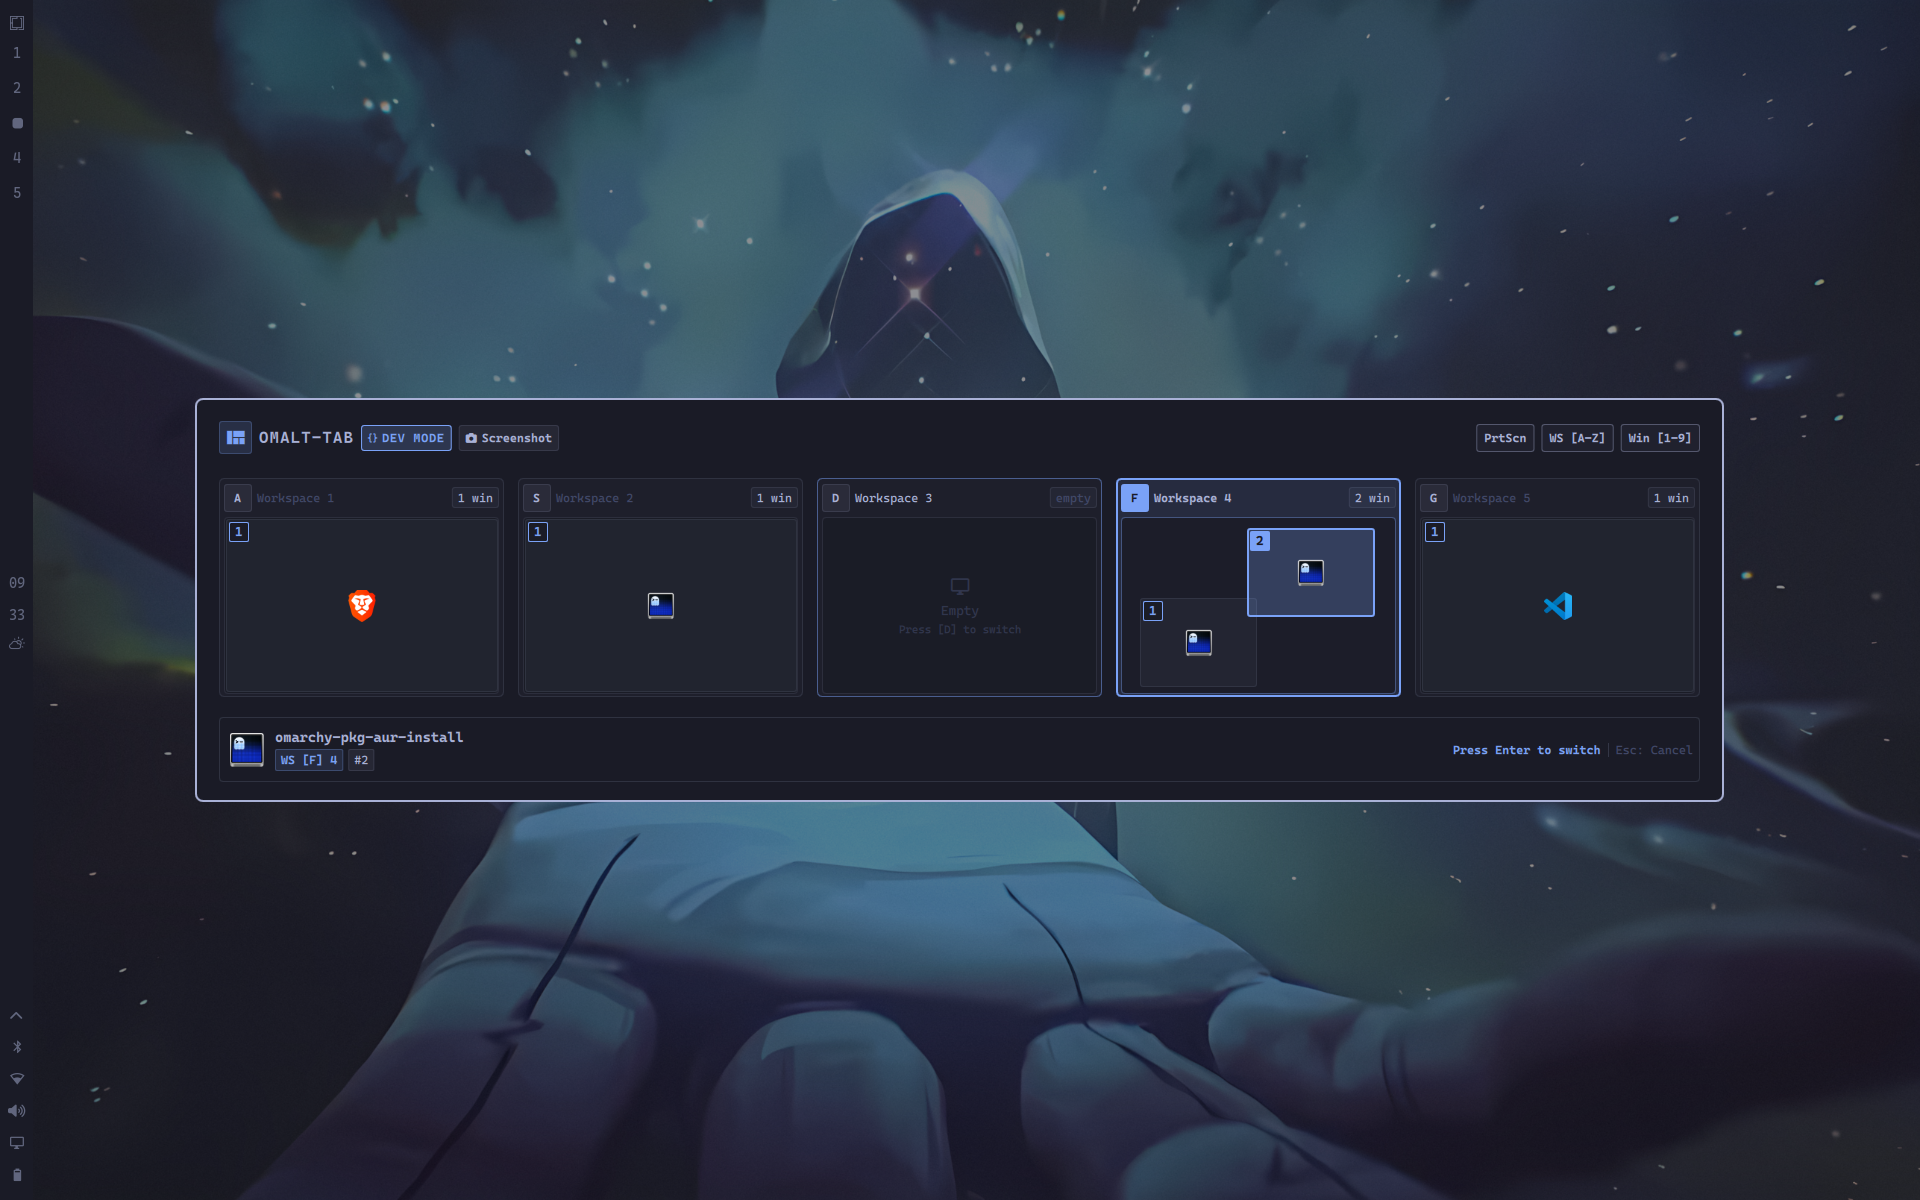
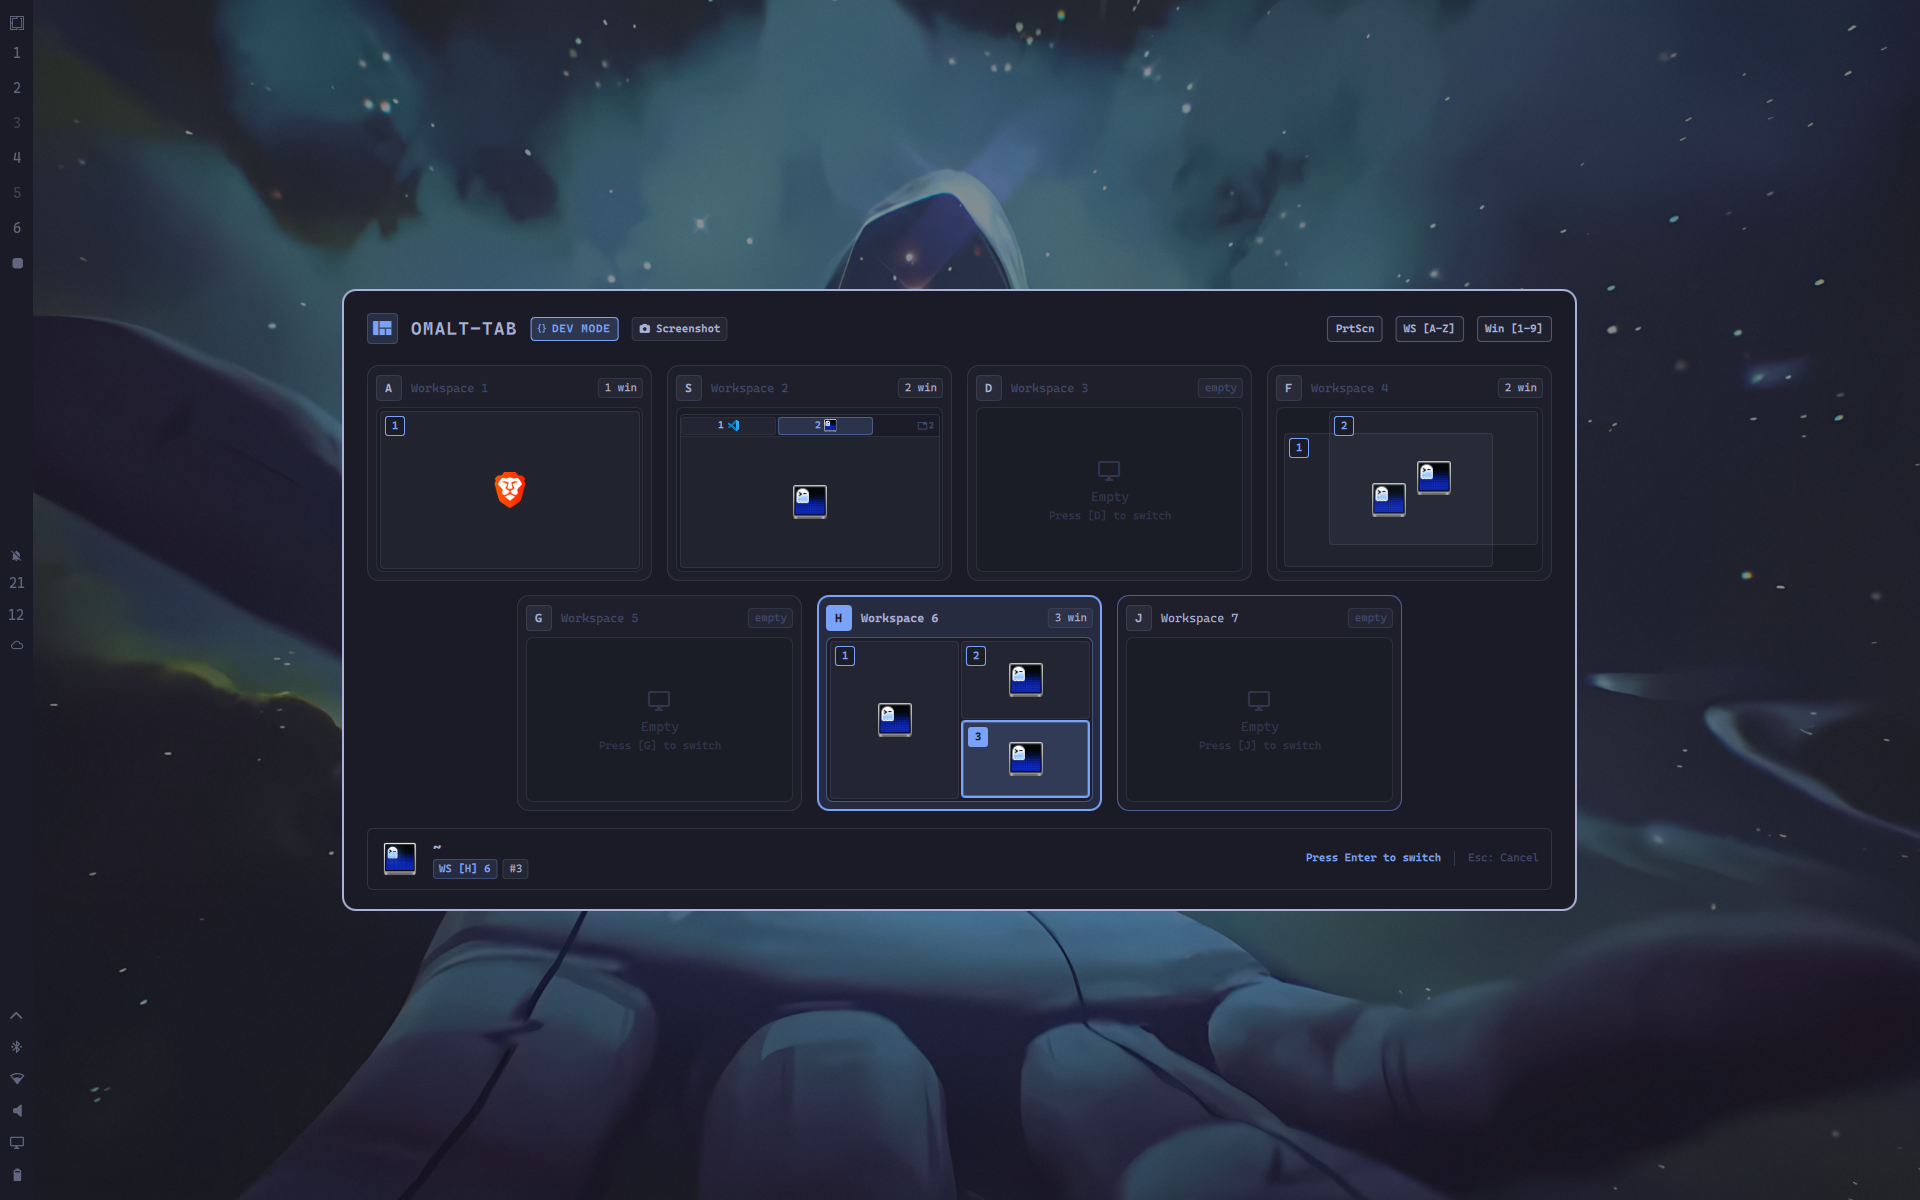
docs: update visual tour, screenshots, and documentation for multi-row layout

diff --git a/README.md b/README.md
@@ -2,12 +2,12 @@
 
 # ❖ omalt-tab
 
-**An ergonomic, race-condition-free Quickshell Alt+Tab window switcher with home-row workspace navigation and spatial miniature desktop layout for Omarchy.**
+**An ergonomic, race-condition-free Quickshell Alt+Tab window switcher with home-row workspace navigation, native Hyprland grouped window tabs, dynamic multi-row overflow, and spatial miniature desktop layout for Omarchy.**
 
 [![Omarchy Plugin](https://img.shields.io/badge/Omarchy-Plugin-3b82f6.svg?style=for-the-badge&logo=archlinux&logoColor=white)](https://omarchy.org)
 [![Quickshell](https://img.shields.io/badge/Quickshell-0.3.1-f59e0b.svg?style=for-the-badge)](https://quickshell.outfoxxed.me)
 [![License: Apache 2.0](https://img.shields.io/badge/License-Apache_2.0-8b5cf6.svg?style=for-the-badge)](LICENSE)
-[![Tests Passing](https://img.shields.io/badge/Tests-Passing-10b981.svg?style=for-the-badge)](tests/test_logic.js)
+[![Tests Passing](https://img.shields.io/badge/Tests-19%20Passing-10b981.svg?style=for-the-badge)](tests/test_logic.js)
 
 <br/>
 
@@ -15,9 +15,9 @@
   <img src="demo/demo.gif" alt="omalt-tab in Action" width="100%" style="border-radius: 12px; box-shadow: 0 16px 40px rgba(0,0,0,0.6);" />
 </p>
 
-*Spatial desktop switching in action — miniature workspace previews, home-row jumping, and real-time app outlines.*
+*Spatial desktop switching in action — miniature workspace previews, home-row jumping, native window group tabs, and real-time app outlines.*
 
-[**Features**](#-highlights--why-omalt-tab) • [**Visual Tour**](#-visual-tour) • [**Controls**](#-controls--keymap) • [**Installation**](#-installation--setup) • [**Makefile Reference**](#-makefile-reference) • [**Architecture**](#-architecture)
+[**Features**](#-highlights--why-omalt-tab) • [**Visual Tour**](#-visual-tour) • [**Controls**](#-controls--keymap) • [**Installation**](#-installation--setup) • [**Makefile Reference**](#-makefile-reference) • [**Architecture**](#-architecture) • [**Testing**](#-automated-testing)
 
 </div>
 
@@ -28,13 +28,27 @@
 Most Linux Wayland task switchers either blindly iterate windows in an unstructured linear strip or trigger frantic focus changes on each keystroke. **omalt-tab** re-engineers window switching from first principles:
 
 - ⚡ **Atomic, Race-Condition-Free Focus**:
-  Clients and workspaces are snapshotted **once** in RAM when the overlay opens. Cycling through tasks updates only internal selection states — window focus history is **never mutated mid-cycle**. Focus is dispatched atomically only when you release `Alt` (or press `Enter`).
+  Clients and workspaces are snapshotted **once** in RAM when the overlay opens. Cycling through tasks updates only internal selection states — window focus history is **never mutated mid-cycle**. Focus is dispatched atomically only when you release <kbd>Alt</kbd> (or press <kbd>Enter</kbd>).
+- 📑 **Native Hyprland Grouped Windows (Tabs)**:
+  Full first-class support for Hyprland tabbed window groups. Renders an interactive tab bar atop grouped window tiles showing app icons for each tab member, preserves active tab focus, and enables seamless intra-group tab navigation via arrow keys.
+- 🌊 **Dynamic Multi-Row Overflow (> 6 Workspaces)**:
+  Workspaces dynamically overflow into a balanced two-row layout when more than 6 workspaces are active (`count > 6`), comfortably fitting all 10 desktops without horizontal squishing or microscopic preview cards.
+- 🧱 **Organic Staggered Row Arrangement (Brickwork Pattern)**:
+  Multi-row layouts are arranged in an organic brickwork / keyboard stagger (offset by half a card width, $0.5 \times \text{stepSize}$), ensuring cards in Row 2 are **never positioned directly beneath Row 1** while maintaining screen-centered symmetry.
+- 🎯 **1.1x Sweet-Spot Sizing & Centralized Design Tokens (`js/Dimensions.js`)**:
+  Layout, spacing, padding, badges, and typography are decoupled into pure metrics tokens scaled to the 1.1x "sweet spot" (~285px card width). Workspaces retain this ideal size regardless of whether 1, 6, 8, or 10 workspaces are active.
 - ⌨ **Home-Row Workspace Jumping (`A`–`;`)**:
   Skip tedious sequential cycling. Every workspace (`1` through `10`) is mapped straight across your keyboard's home row (`A`, `S`, `D`, `F`, `G`, `H`, `J`, `K`, `L`, `;`). Press one key to jump across your desktop instantly.
 - 🔢 **Direct Window Focus Badges (`1`–`9`)**:
-  Every window within each workspace card renders a distinct numbered badge. Hit `1`–`9` to immediately jump focus to that exact window without navigating.
+  Every window within each workspace card renders a distinct numbered badge styled to match your active Omarchy theme. Hit `1`–`9` to immediately jump focus to that exact window without navigating.
 - 🗂 **Miniature Desktop Spatial Previews**:
   Workspaces render miniature cards matching your display's true aspect ratio (16:9, 16:10, ultrawide). Window outlines reflect their genuine screen positions and sizes, with compensation for reserved top bars.
+- 🖥 **Multi-Monitor Intelligent Placement**:
+  Automatically resolves the currently active monitor and attaches the switcher overlay directly to that screen, normalizing window coordinates per monitor bounds.
+- 🔒 **Hardened Security & Text Sanitization (`js/Utils.js`)**:
+  Centralized defense against CVE Unicode bidirectional override spoofing (CVE RTL-override: U+200E, U+200F, U+202A–U+202E, U+2066–U+2069), control character injection, and rich-text disruption across all UI sinks with explicit `PlainText` formatting.
+- 🛡 **Recursion-Safe Lifecycle Engine**:
+  Guarded dismissal architecture (`isDismissing`) preventing mutual recursion between overlay closing and Omarchy shell hides. Window focus is safely dispatched via `QtObject` and `Quickshell.execDetached` before surface teardown.
 - 🌌 **Empty Workspace Traversal**:
   Unpopulated workspaces between active desktops are automatically detected and presented as cleanly styled empty cards. Jump to an empty desktop with a single keystroke and release `Alt` to land directly on it.
 - 🎨 **Reactive Omarchy Theme Binding**:
@@ -42,7 +56,7 @@ Most Linux Wayland task switchers either blindly iterate windows in an unstructu
 - 🚀 **Sub-Millisecond UNIX Domain Socket**:
   Communicates over a dedicated socket (`$XDG_RUNTIME_DIR/omalt-tab.sock`) with automatic fallback to Omarchy shell IPC for instant response times.
 - 🛠 **Zero-Dirty Git Developer Mode**:
-  Developer mode toggles via a gitignored `.dev` flag file. Switch between development and production without dirtying tracked files or triggering git diffs.
+  Developer mode toggles dynamically via a gitignored `.dev` flag file. Switch between development and production without dirtying tracked files or triggering git diffs.
 
 ---
 
@@ -55,7 +69,14 @@ Most Linux Wayland task switchers either blindly iterate windows in an unstructu
 
 - **Header Bar**: Displays active shortcut hints, jump keymaps, and dev badges.
 - **Workspace Cards**: Scaled miniatures of each desktop containing proportional window outlines, high-res FreeDesktop application icons, and numbered badges (`1`–`9`).
-- **Footer Bar**: Displays the currently focused window title, executable class name, and switching action.
+- **Grouped Windows**: Windows sharing a Hyprland group render integrated tab bars with icons for each member, highlighting the active tab with accent borders.
+- **Footer Bar**: Displays the currently focused window title (sanitized plain-text), executable class name, and switching action hint.
+
+### Dynamic Multi-Row & Staggered Alignment (> 6 Workspaces)
+When 7 to 10 workspaces are active, the switcher automatically splits into two rows:
+- **Row 1**: Upper workspaces (e.g. 1–5).
+- **Row 2**: Lower workspaces (e.g. 6–10), offset by a half-step ($0.5 \times \text{stepSize}$) in an organic brickwork pattern so cards are never stacked rigidly on top of each other.
+- **2D Spatial Traversal**: Pressing <kbd>↑</kbd> and <kbd>↓</kbd> navigates smoothly between rows.
 
 ### Full-Desktop Scrim Dimming
 <p align="center">
@@ -74,8 +95,8 @@ Most Linux Wayland task switchers either blindly iterate windows in an unstructu
 | :--- | :--- |
 | <kbd>Alt</kbd> + <kbd>Tab</kbd> | Cycle next window in MRU (Most Recently Used) order |
 | <kbd>Alt</kbd> + <kbd>Shift</kbd> + <kbd>Tab</kbd> | Cycle previous window in MRU order |
-| **Release <kbd>Alt</kbd>** | **Commit selection and focus window immediately** |
-| <kbd>Enter</kbd> / <kbd>Space</kbd> | Commit and focus selected window |
+| **Release <kbd>Alt</kbd>** | **Commit selection and focus window immediately** (Production mode) |
+| <kbd>Enter</kbd> / <kbd>Space</kbd> | Commit and focus selected window (Required in Dev mode; supported in both) |
 | <kbd>Esc</kbd> / Click outside | Cancel switcher without changing window focus |
 
 ### Direct Jumping (Home Row & Numbers)
@@ -92,14 +113,14 @@ Most Linux Wayland task switchers either blindly iterate windows in an unstructu
 | <kbd>K</kbd> | Jump to **Workspace 8** |
 | <kbd>L</kbd> | Jump to **Workspace 9** |
 | <kbd>;</kbd> | Jump to **Workspace 10** |
-| <kbd>1</kbd> – <kbd>9</kbd> | Select window index **1** through **9** in active workspace |
+| <kbd>1</kbd> – <kbd>9</kbd> | Select window index **1** through **9** (or active group tab) in active workspace |
 
-### Spatial & Cursor Navigation
+### Spatial & 2D Cursor Navigation
 
 | Input | Action |
 | :--- | :--- |
-| <kbd>←</kbd> / <kbd>→</kbd> | Spatial navigation left / right across adjacent windows and workspaces |
-| <kbd>↑</kbd> / <kbd>↓</kbd> | Spatial navigation up / down across vertically stacked windows |
+| <kbd>←</kbd> / <kbd>→</kbd> | Spatial navigation left / right across adjacent windows, workspaces, and intra-group tabs |
+| <kbd>↑</kbd> / <kbd>↓</kbd> | Spatial navigation up / down across stacked windows, intra-group tabs, and **between Row 1 & Row 2** |
 | <kbd>Home</kbd> / <kbd>End</kbd> | Jump to first / last window in the MRU sequence |
 | **Left Click Window** | Immediately focus and switch to clicked window |
 | **Left Click Workspace** | Immediately jump to clicked workspace |
@@ -137,6 +158,14 @@ To install or restore standard release-to-switch behavior:
 
 ```sh
 make prod
+```
+
+### Check Installation Status
+
+Verify active mode, symlink targets, Omarchy plugin registration, and socket health anytime:
+
+```sh
+make status
 ```
 
 ### Remove
@@ -214,9 +243,10 @@ The codebase follows a clean separation of concerns across presentation, core al
 ```
 omalt-tab/
 ├── components/          # Modular QML visual presentation layer
-├── js/                  # Decoupled navigation math, model parser, & icon resolver
+├── js/                  # Decoupled core logic, design tokens, & security
 ├── hypr/                # Keybinding submaps & IPC client script
-├── tests/               # Automated regression and logic unit tests
+├── tests/               # Automated regression and logic unit tests (19 tests)
+├── scripts/             # Management scripts for install, link, and validation
 ├── demo/                # Showcase recordings and high-resolution media
 ├── AltTabOverlay.qml    # Main shell overlay entry point & IPC coordinator
 └── manifest.json        # Omarchy plugin manifest contract
@@ -225,16 +255,22 @@ omalt-tab/
 ### Directory Breakdown
 
 - **`components/` (Presentation Layer)**:
-  Modular QML components handling all UI layout and styling. Houses miniature desktop cards (`WorkspaceCard`), proportional window tiles with selection glow (`WindowTile`), shortcut hint headers (`HeaderBar`), and window metadata footers (`FooterBar`).
+  Modular QML components handling all UI layout and styling. Houses miniature desktop cards (`WorkspaceCard`), proportional window tiles with selection glow and tab bars (`WindowTile`), shortcut hint headers (`HeaderBar`), and window metadata footers with plain-text sinks (`FooterBar`).
 
-- **`js/` (Core Logic Engine)**:
-  Framework-agnostic JavaScript business logic decoupled from Qt Quick. Responsible for window geometry scaling with top menu bar compensation (`WindowModel`), 2D spatial navigation and MRU cycler (`Navigation`), FreeDesktop / PWA icon candidate resolution (`Icons`), and central configuration defaults (`Config`).
+- **`js/` (Core Logic Engine & Design System)**:
+  Framework-agnostic JavaScript business logic decoupled from Qt Quick:
+  - `WindowModel.js`: Snapshot parser with top menu bar compensation and Hyprland grouped window member detection.
+  - `Navigation.js`: 2D spatial traversal across windows, intra-group tabs, multi-row workspaces, and MRU cycler.
+  - `Dimensions.js`: Centralized layout tokens locked to the 1.1x sweet spot (~285px card width).
+  - `Utils.js`: Centralized security utilities stripping Unicode direction overrides and control characters.
+  - `Icons.js`: Dynamic FreeDesktop candidate generator and Web App / PWA desktop file resolver.
+  - `Config.js`: Dynamic options for dev mode, badges, and debug logging.
 
 - **`hypr/` (Keybindings & IPC Integration)**:
-  Desktop hooks and IPC dispatching. Contains the Omarchy keybinding submap configuration with atomic Alt-release watcher (`bindings.lua`) and the sub-millisecond UNIX domain socket client (`omalt-tab-client`).
+  Desktop hooks and IPC dispatching. Contains the Omarchy keybinding submap configuration with dynamic Alt-release watcher (`bindings.lua`) and the sub-millisecond UNIX domain socket client (`omalt-tab-client`).
 
 - **`tests/` (Verification Suite)**:
-  Automated Node.js regression test suite (`test_logic.js`) validating coordinate normalization math, spatial traversal algorithms, empty workspace handling, icon resolution fallbacks, and dev flag logic.
+  Automated Node.js regression test suite (`test_logic.js`) validating coordinate normalization math, spatial traversal algorithms, empty workspace handling, icon resolution fallbacks, grouped window tabs, multi-row overflow & stagger math, security sanitization, and dismissal recursion safety.
 
 - **`demo/` (Showcase Media)**:
   High-resolution media assets including the lossless showcase animation (`demo.gif`) and desktop screenshots.
@@ -243,13 +279,21 @@ omalt-tab/
 
 ## 🧪 Automated Testing
 
-All core snapshot parsing, empty workspace detection, home-row jumping, spatial navigation, and icon resolution algorithms are rigorously unit-tested:
+All core snapshot parsing, empty workspace detection, home-row jumping, grouped window tabs, multi-row overflow, staggered row offsets, security sanitization, and lifecycle safety algorithms are rigorously unit-tested:
 
 ```sh
 make test
 ```
 
-To run the full validation suite (manifest validation, syntax checks, tests):
+### Test Suite Highlights (19 Tests)
+- **Snapshot & Geometry**: Usable geometry normalization, menu-bar exclusion, multi-monitor bounds.
+- **Grouped Windows**: Hyprland tab group detection, member extraction, and tab bar models.
+- **Spatial Navigation**: 2D arrow traversal across windows, intra-group tabs, and row-to-row jumping (> 6 workspaces).
+- **Multi-Row & Stagger**: Threshold from 6 overflow logic and half-card brickwork `staggerShift` calculations.
+- **Security & Tokens**: CVE BiDi control character stripping, plain-text sinks, and pure token separation in `Dimensions.js`.
+- **Lifecycle & Dismissal**: Circular recursion prevention on `shell.hide()` and atomic `focusWindow()` dispatching.
+
+To run the full validation suite (manifest validation, bash syntax checks, lua syntax checks, unit tests):
 
 ```sh
 make validate
